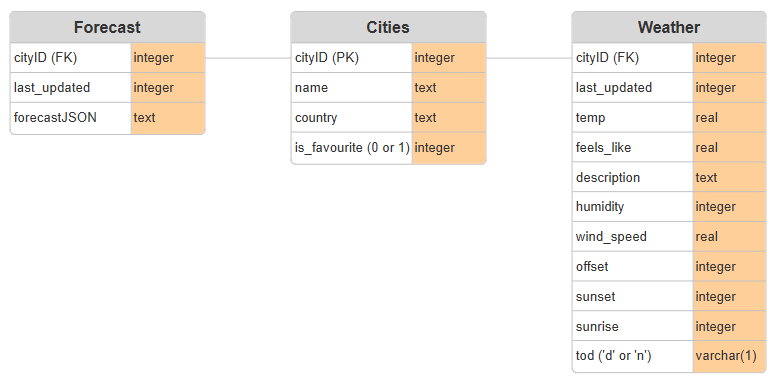
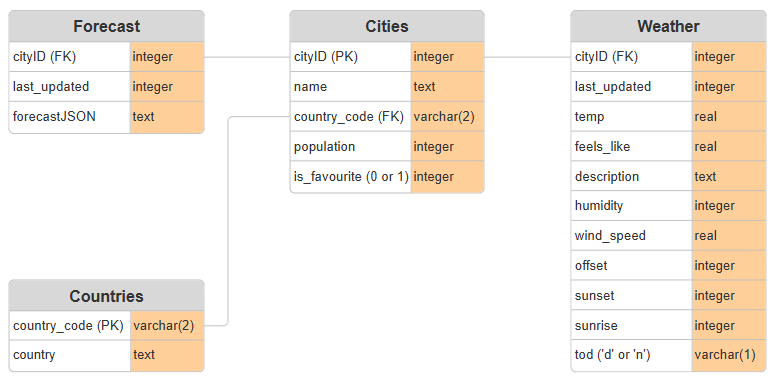
Added new database schemas and ER diagrams

Changed region(s): [[0.0, 0.029, 0.9922, 0.9868], [0.0, 0.7256, 0.2791, 0.9868], [0.4651, 0.029, 0.5271, 0.0871]]

diff --git a/docs/diagrams/DatabseDesign.md b/docs/diagrams/DatabseDesign.md
@@ -1,0 +1,92 @@
+# Conversion of ER Diagram to Relational Tables
+
+The **experiences** and **forecasts** relationships between **cities**, **weather**, and **forecast** are one-to-one and need not be stored. Due to full participation from **weather** and **forecast** to **cities**, we set `cityID` as the primary key to all tables.
+
+This gives us the following tables:
+
+1. `Cities(cityID, name, country_code, country, population, is_favourite)`  
+   - PK: `cityID`
+   
+2. `Weather(cityID, last_updated, temp, feels_like, description, humidity, wind_speed, offset, sunset, sunrise, tod)`  
+   - PK: `cityID`
+   - FK: `cityID` references **Cities** table
+
+3. `Forecast(cityID, last_updated, forecastJSON)`  
+   - PK: `cityID`
+   - FK: `cityID` references **Cities** table
+
+---
+
+## Normalization
+
+### 1. **Cities**(cityID, name, country_code, country, population, is_favourite)  
+
+We infer the functional dependency:  
+`cityID → name, country_code, country, population, is_favourite`   
+`country_code → country` 
+
+**Notes:**
+- Every attribute is atomic.
+- The details of any city can be determined by its `cityID`.
+- The table is in 2NF but not 3NF since `country` only depends on `country_code`. We must create a new table to eliminate this transitivity:
+
+### 1a. **Cities**(cityID, name, country_code, population, is_favourite)
+   - PK: `cityID`
+   - FK: `country_code` references **Countries**
+### 1b. **Countries**(country_code, country)
+   - PK: `country_code`
+
+**Notes:**
+- All attributes entirely depend on their key.
+- No attributes determine the key.
+
+**Conclusion:** Table 1a and 1b are in **BCNF**.
+
+---
+
+### 2. **Weather**(cityID, last_updated, temp, feels_like, description, humidity, wind_speed, offset, sunset, sunrise, tod)
+
+We infer the functional dependency:  
+`cityID → last_updated, temp, feels_like, description, humidity, wind_speed, offset, sunset, sunrise, tod`
+
+**Notes:**
+- Each attribute is atomic.
+- The details of any weather data can be determined by its `cityID`.
+- No attributes determine the key.
+
+**Conclusion:** Table 2 is in **BCNF**.
+
+---
+
+### 3. **Forecast**(cityID, last_updated, forecastJSON)
+
+We infer the functional dependency:  
+`cityID → last_updated, forecastJSON`
+
+**Notes:**
+- Each attribute is atomic.
+- The details of any forecast data can be determined by its `cityID`.
+- No attributes determine the key.
+
+**Conclusion:** Table 3 is in **BCNF**.
+
+---
+
+## Normalized Tables (all in BCNF):
+
+1. `Cities(cityID, name, country_code, population, is_favourite)`  
+   - PK: `cityID`
+   - FK: `country_code` references **Countries** table
+
+2. `Countries(country_code, country)`
+   - PK: `country_code`
+
+3. `Weather(cityID, last_updated, temp, feels_like, description, humidity, wind_speed, offset, sunset, sunrise, tod)`  
+   - PK: `cityID` 
+   - FK: `cityID` references **Cities** table
+
+4. `Forecast(cityID, last_updated, forecastJSON)`  
+   - PK: `cityID`
+   - FK: `cityID` references **Cities** table
+
+Note: The relationship between **Cities** and **Countries** is now set as **LocatedIn** with full participation from **Cities** and partial participation from **Countries.** It is one-to-many since each city belongs to one country and each country may have many cities (check normalized ER Diagram for more information).
